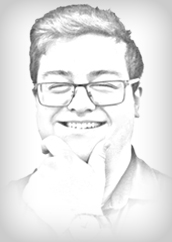
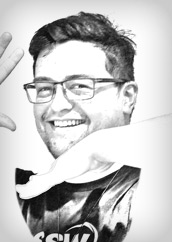
Update tylah kapa (#1034)
* update-tylah

* update

* Add new Profile Images

* Update to use proper youtube embed

diff --git a/Tylah-Kapa/Tylah-Kapa.md b/Tylah-Kapa/Tylah-Kapa.md
@@ -10,7 +10,7 @@ quoteAuthor: "Patrick McKenzie"
 [Editing profiles]: https://github.com/SSWConsulting/SSW.People.Profiles/wiki/5.-Editing-profiles
 
 [[imgBadge]]
-| ![Azure_Fundamentals_Badge](../badges/Certification-microsoft-azure-developer-associate.png)
+| ![Azure_Developer_Badge](../badges/Certification-microsoft-azure-developer-associate.png)
 
 [[imgBadge]]
 | ![Azure_Fundamentals_Badge](../badges/Certification-microsoft-azure-fundamentals.png)
@@ -36,16 +36,21 @@ quoteAuthor: "Patrick McKenzie"
 [[imgBadge]]
 | ![React image badge](../badges/Developer-react.png)
 
-Tylah is an SSW Software Engineer specialising in developing web applications using .NET Core, ASP.NET Core and EF Core. Tylah has experience with a range of modern front-end technologies including Angular, React and Blazor, and has a background in games development with the Unity Engine.
+Tylah is an SSW Software Engineer specialising in developing web applications using .NET Core, ASP.NET Core and EF Core. Tylah has experience with a range of modern front-end technologies including NextJs, Angular and Blazor, and has a background in games development with the Unity Engine.
 
 Tylah is invested in keeping applications up to date with the latest tech, and applying [Clean Architecture](https://www.ssw.com.au/rules/rules-to-better-clean-architecture) best practices to his work. 
+
+# Community Events
+
+Tylah strives to be a part of the local and global development community. If you keep a keen eye at events such as [DDD Brisbane](https://www.dddbrisbane.com/) or [NDC Sydney](https://ndcsydney.com/), you'll be sure to spot him.
+
+Check out Tylah's talk on how easy it is to get started with Vercel:
+
+`youtube: https://www.youtube.com/embed/YqbdwNxA_sI`
 
 # Internal Projects
 
 ## SSW.TimePro
-Tylah leads a team to modernize an invoicing application from .NET Framework and AngularJS to .NET 7 and Angular 14.
+Tylah leads a team to modernize an invoicing application from .NET Framework and AngularJS to .NET 8 and Angular 14.
 
 **SSW.TimePro** is the primary application used by SSW employees every single day to track timesheets, create invoices for clients, and generate reports. This application actively communicates with Dynamics CRM, Azure DevOps and Xero to deliver a quick and easy user experience.
-
-# Community Events
-Tylah strives to be a part of the local and global development community. If you keep a keen eye at events such as [DDD Brisbane](https://www.dddbrisbane.com/) or [NDC Sydney](https://ndcsydney.com/), you'll be sure to spot him.
